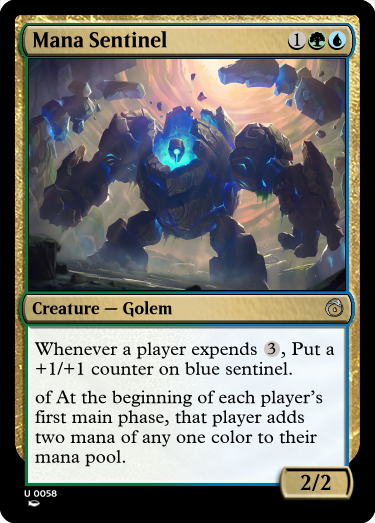
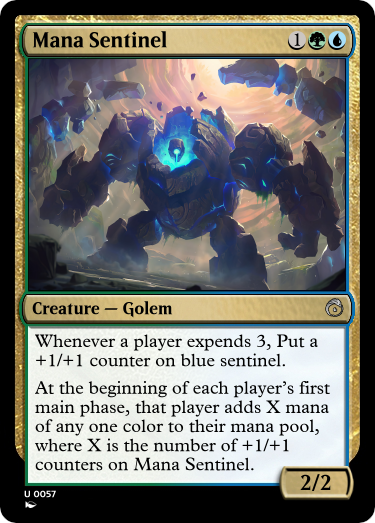
deleted:    images/recent/Bilgewater/Mana Sentinel.png 	modified:   images/recent/Ionia/Mana Sentinel.png

diff --git a/index.html b/index.html
@@ -76,7 +76,7 @@
                 <ol><img src="images/Zyra Nature Given Form.png"></ol>
 
                 <!--Colorless-->
-                <ol><img src="images/Aphelios Sibling of Faith.png"></ol>
+                <!-- <ol><img src="images/Aphelios Sibling of Faith.png"></ol> -->
                 <ol><img src="images/Blitzcrank Rolling Golem.png"></ol>
                 <ol><img src="images/Galio Bulwark of Demacia.png"></ol>
                 <ol><img src="images/Jhin Cold Open.png"></ol>
